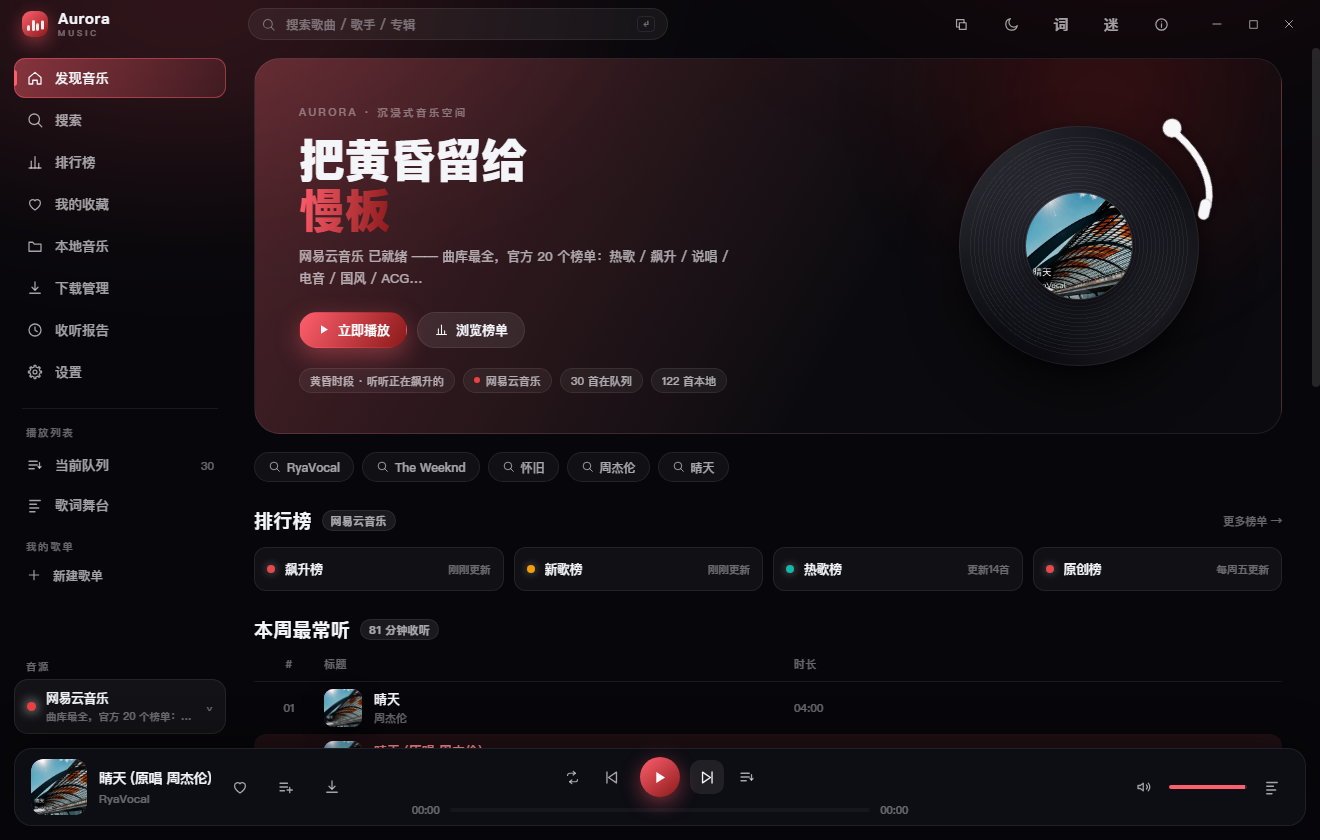
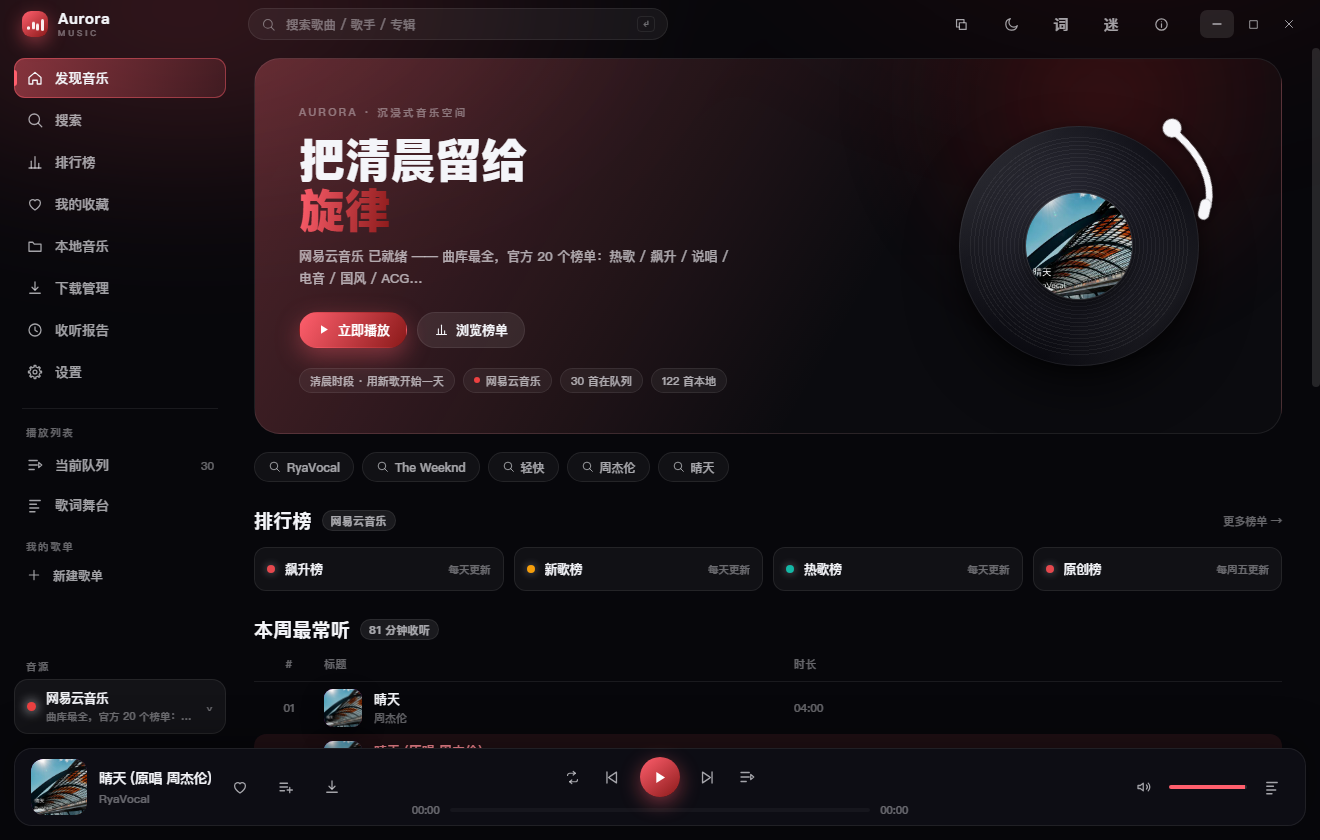
fix(ui): 队列与歌词舞台的图标撞脸
两处原来都是横线图标：list 是三条横线加下箭头，lyrics 是四条参差横线。
18px 下几乎分不出谁是谁，而侧边栏「当前队列」和「歌词舞台」上下相邻、
播放条上也是一左一右两个按钮，实际用起来很容易点错。

新增 queue 图标：三条横线 + 右侧播放三角，只给「队列」语义用；list 保留给
歌单占位那些地方。改动四处：侧边栏当前队列、播放条队列按钮、迷你播放器、
播放页控制行。

截图已重拍（discover / nowplaying），两个图标并排时能一眼分开。
typecheck / 191 单测 / build 全绿。

Changed region(s): [[0.2174, 0.1548, 0.3417, 0.2786], [0.9008, 0.0, 0.9318, 0.0619], [0.2795, 0.4333, 0.3417, 0.4643]]

diff --git a/src/renderer/src/components/Icon.vue b/src/renderer/src/components/Icon.vue
@@ -23,6 +23,11 @@ const ICONS: Record<string, IconDef> = {
   pencil: { paths: ['M4 20h4L19.5 8.5 15.5 4.5 4 16z', 'M13.5 6.5l4 4'], fill: false },
   download: { paths: ['M12 4v10', 'M8 11l4 4 4-4', 'M5 19h14'], fill: false },
   list: { paths: ['M4 7h11M4 12h11M4 17h7', 'M18 9v7', 'M16 14l2 2 2-2'], fill: false },
+  /**
+   * 队列专用：三条横线 + 播放三角。
+   * 和 lyrics（四条参差横线）区分开——两者都放 18px 时，纯横线根本分不出谁是谁。
+   */
+  queue: { paths: ['M4 6h11', 'M4 12h11', 'M4 18h7', 'M17 8.5l4 3.5-4 3.5z'], fill: false },
   lyrics: { paths: ['M5 6h14', 'M5 11h9', 'M5 16h12', 'M5 21h7'], fill: false },
   shuffle: { paths: ['M4 7h3l7 10h4', 'M4 17h3l7-10h4', 'M16 4.5 19.5 7 16 9.5', 'M16 14.5 19.5 17 16 19.5'], fill: false },
   repeat: { paths: ['M5 9a3 3 0 0 1 3-3h8', 'M13 3.5 16 6l-3 2.5', 'M19 15a3 3 0 0 1-3 3H8', 'M11 20.5 8 18l3-2.5'], fill: false },

diff --git a/src/renderer/src/components/SideBar.vue b/src/renderer/src/components/SideBar.vue
@@ -76,7 +76,7 @@ onBeforeUnmount(() => document.removeEventListener('mousedown', onDocClick))
     <div class="block">
       <p class="block-title">播放列表</p>
       <button class="nav-item as-button" @click="player.showQueue = !player.showQueue">
-        <Icon name="list" :size="18" />
+        <Icon name="queue" :size="18" />
         <span>当前队列</span>
         <em class="count">{{ player.queue.length }}</em>
       </button>

diff --git a/src/renderer/src/components/NowPlaying.vue b/src/renderer/src/components/NowPlaying.vue
@@ -446,7 +446,7 @@ onBeforeUnmount(() => {
         </button>
         <button class="round" @click="player.next()"><Icon name="next" :size="22" /></button>
         <button class="icon-btn" @click="player.showQueue = !player.showQueue">
-          <Icon name="list" :size="20" />
+          <Icon name="queue" :size="20" />
         </button>
       </div>
     </div>

diff --git a/src/renderer/src/components/MiniPlayer.vue b/src/renderer/src/components/MiniPlayer.vue
@@ -376,7 +376,7 @@ onBeforeUnmount(() => {
           title="播放队列"
           @click="togglePanel('queue')"
         >
-          <Icon name="list" :size="14" />
+          <Icon name="queue" :size="14" />
         </button>
         <button class="abtn" title="隐藏到托盘" @click="closeWindow">
           <Icon name="close" :size="13" />

diff --git a/src/renderer/src/components/PlayerBar.vue b/src/renderer/src/components/PlayerBar.vue
@@ -118,7 +118,7 @@ function setVolume(event: Event): void {
             title="播放队列"
             @click="player.showQueue = !player.showQueue"
           >
-            <Icon name="list" :size="18" />
+            <Icon name="queue" :size="18" />
           </button>
         </div>
 
